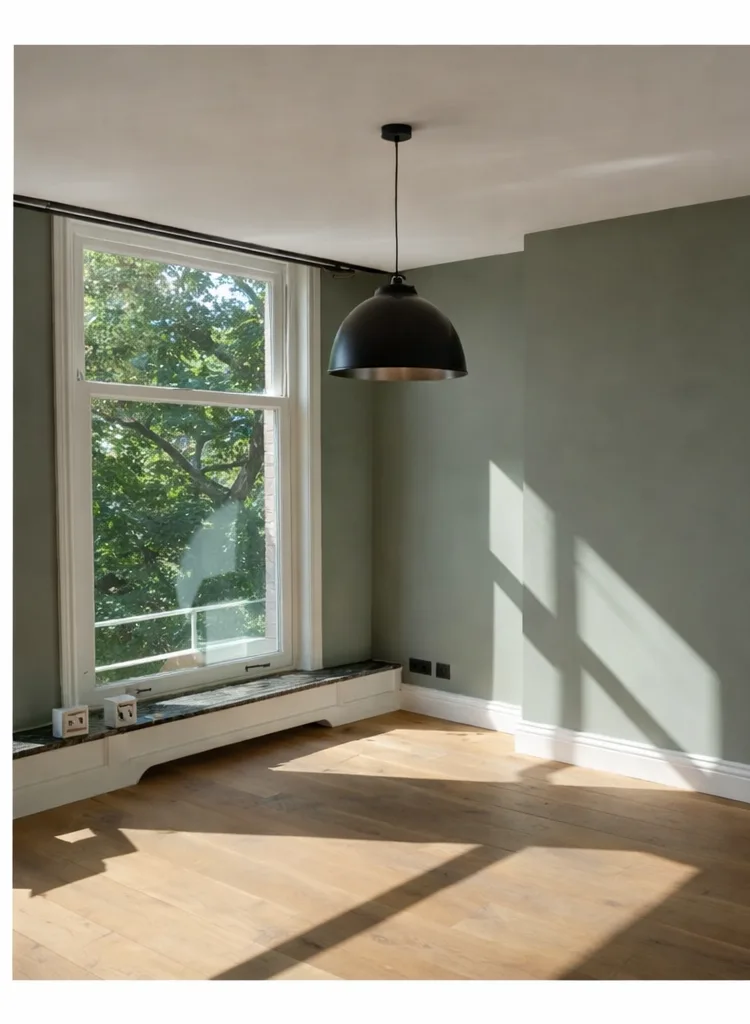
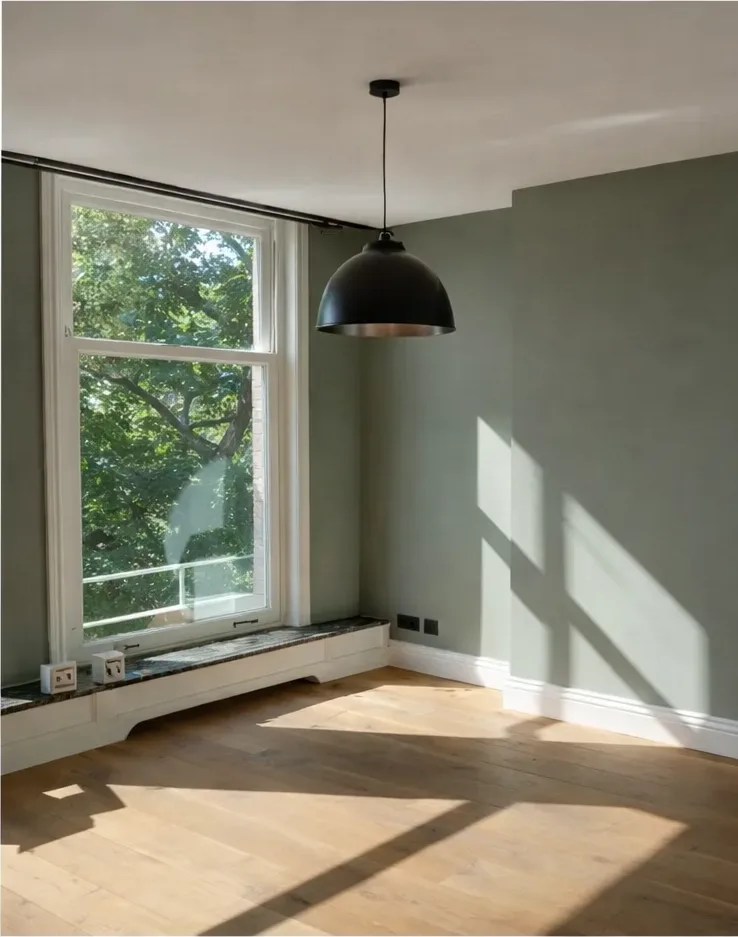
Crop baked-in white pixel borders from apartment B&A images
Original composite splits left white padding in the image data:
- Before: 44px top, 43px bottom, 12px left (all ~255 brightness)
- After: 44px top, 9px left
Cropped to actual photo content. Edge brightness now ~210 (matching other pairs).

diff --git a/en/painting/quote/index.html b/en/painting/quote/index.html
@@ -308,11 +308,11 @@
         <div class="bg-black rounded-xl overflow-hidden">
           <div class="grid grid-cols-2 gap-0.5">
             <div class="relative aspect-[3/4]">
-              <img src="../../../img/ba_appartement_woonkamer_before.webp" alt="Before: apartment living room Amsterdam" class="w-full h-full object-cover" loading="lazy" width="750" height="1024">
+              <img src="../../../img/ba_appartement_woonkamer_before.webp" alt="Before: apartment living room Amsterdam" class="w-full h-full object-cover" loading="lazy" width="738" height="937">
               <span class="absolute top-2 left-2 bg-black/60 text-white text-xs font-semibold px-2.5 py-1 rounded">Before</span>
             </div>
             <div class="relative aspect-[3/4]">
-              <img src="../../../img/ba_appartement_woonkamer_after.webp" alt="After: apartment living room Amsterdam" class="w-full h-full object-cover" loading="lazy" width="750" height="1024">
+              <img src="../../../img/ba_appartement_woonkamer_after.webp" alt="After: apartment living room Amsterdam" class="w-full h-full object-cover" loading="lazy" width="741" height="980">
               <span class="absolute top-2 left-2 bg-brand-orange text-white text-xs font-semibold px-2.5 py-1 rounded">After</span>
             </div>
           </div>

diff --git a/schilderwerk/offerte/index.html b/schilderwerk/offerte/index.html
@@ -312,11 +312,11 @@
         <div class="bg-black rounded-xl overflow-hidden">
           <div class="grid grid-cols-2 gap-0.5">
             <div class="relative aspect-[3/4]">
-              <img src="../../img/ba_appartement_woonkamer_before.webp" alt="Voor: appartement woonkamer Amsterdam" class="w-full h-full object-cover" loading="lazy" width="750" height="1024">
+              <img src="../../img/ba_appartement_woonkamer_before.webp" alt="Voor: appartement woonkamer Amsterdam" class="w-full h-full object-cover" loading="lazy" width="738" height="937">
               <span class="absolute top-2 left-2 bg-black/60 text-white text-xs font-semibold px-2.5 py-1 rounded">Voor</span>
             </div>
             <div class="relative aspect-[3/4]">
-              <img src="../../img/ba_appartement_woonkamer_after.webp" alt="Na: appartement woonkamer Amsterdam" class="w-full h-full object-cover" loading="lazy" width="750" height="1024">
+              <img src="../../img/ba_appartement_woonkamer_after.webp" alt="Na: appartement woonkamer Amsterdam" class="w-full h-full object-cover" loading="lazy" width="741" height="980">
               <span class="absolute top-2 left-2 bg-brand-orange text-white text-xs font-semibold px-2.5 py-1 rounded">Na</span>
             </div>
           </div>
